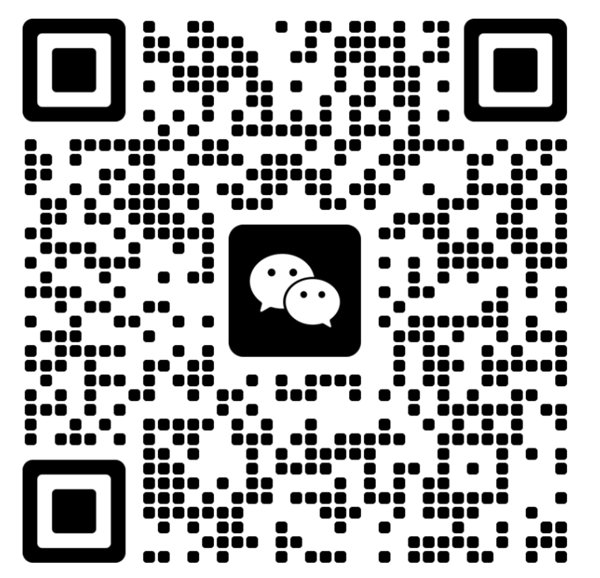
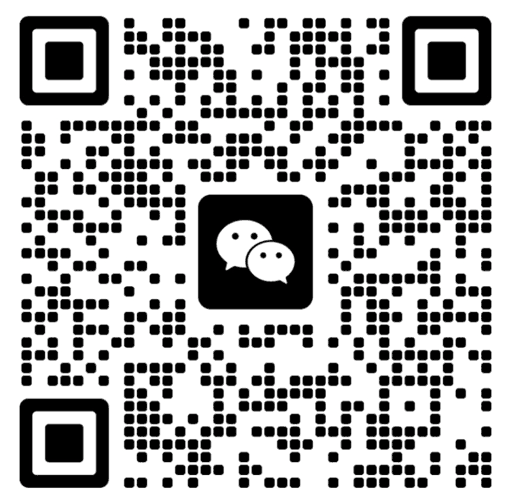
fix: Serve QR codes from site origin instead of R2 CDN
The R2 bucket behind img.kehuangtrade.com does not contain the QR
images, so they 404'd on the live site. Load them from the deployed
site itself (withBase) and compress the PNGs to ~28KB each.

diff --git a/components/Footer.tsx b/components/Footer.tsx
@@ -1,5 +1,5 @@
 import { t, type Lang } from "@/lib/i18n";
-import { site, zaloLink, whatsappLink, telHref, cdn } from "@/lib/site";
+import { site, zaloLink, whatsappLink, telHref, cdn, withBase } from "@/lib/site";
 
 export function Footer({ lang }: { lang: Lang }) {
   const d = t(lang);
@@ -57,15 +57,16 @@ export function Footer({ lang }: { lang: Lang }) {
             <div className="qr-row">
               <div className="qr-box">
                 <a className="qr" href={zaloLink()} aria-label="Zalo">
+                  {/* 二维码走站点自身路径：R2 图床未同步该文件 */}
                   {/* eslint-disable-next-line @next/next/no-img-element */}
-                  <img src={cdn("/images/qr-zalo.png")} alt="Zalo QR" width={74} height={74} />
+                  <img src={withBase("/images/qr-zalo.png")} alt="Zalo QR" width={74} height={74} />
                 </a>
                 Zalo
               </div>
               <div className="qr-box">
                 <div className="qr">
                   {/* eslint-disable-next-line @next/next/no-img-element */}
-                  <img src={cdn("/images/qr-wechat.png")} alt="WeChat QR" width={74} height={74} />
+                  <img src={withBase("/images/qr-wechat.png")} alt="WeChat QR" width={74} height={74} />
                 </div>
                 WeChat（微信）
               </div>

diff --git a/app/[lang]/about/page.tsx b/app/[lang]/about/page.tsx
@@ -152,13 +152,13 @@ export default function AboutPage({ params }: { params: { lang: string } }) {
         <div className="qr-row" style={{ margin: "14px 0" }}>
           <div className="qr-box">
             <a className="qr qr-lg" href={zaloLink()} aria-label="Zalo">
-              <img src={cdn("/images/qr-zalo.png")} alt="Zalo QR" width={110} height={110} />
+              <img src={withBase("/images/qr-zalo.png")} alt="Zalo QR" width={110} height={110} />
             </a>
             Zalo
           </div>
           <div className="qr-box">
             <div className="qr qr-lg">
-              <img src={cdn("/images/qr-wechat.png")} alt="WeChat QR" width={110} height={110} />
+              <img src={withBase("/images/qr-wechat.png")} alt="WeChat QR" width={110} height={110} />
             </div>
             WeChat（微信）
           </div>
